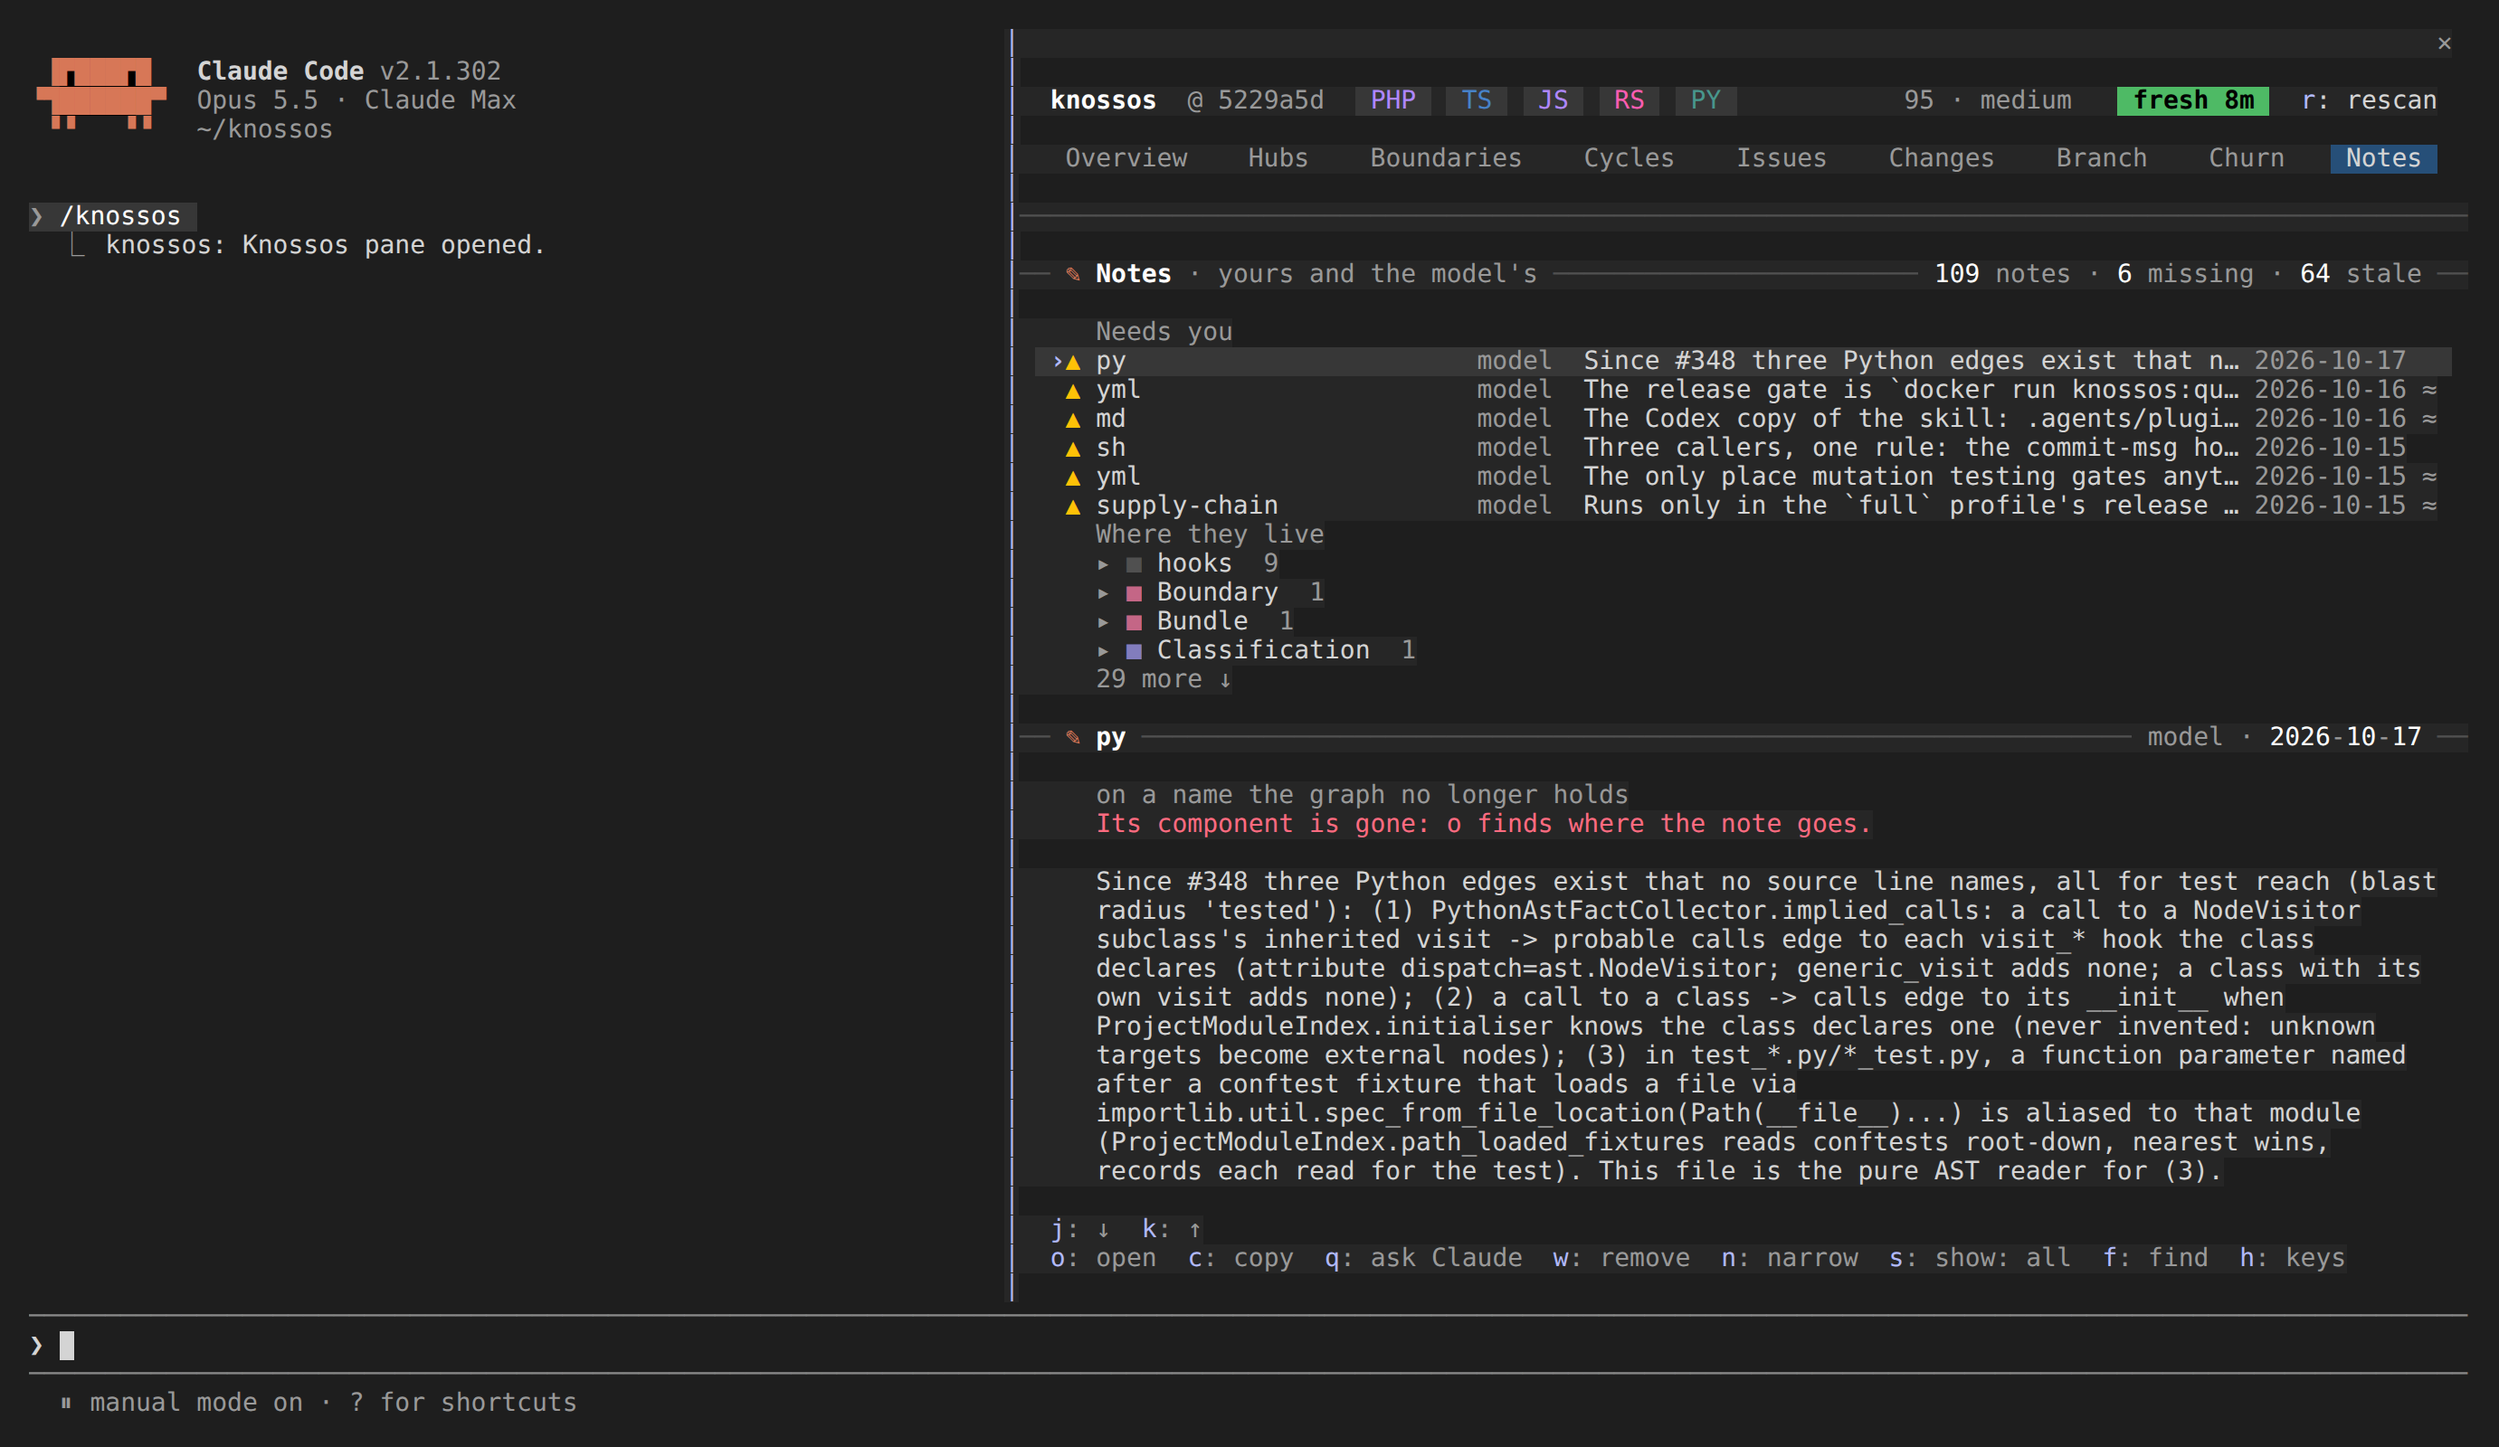
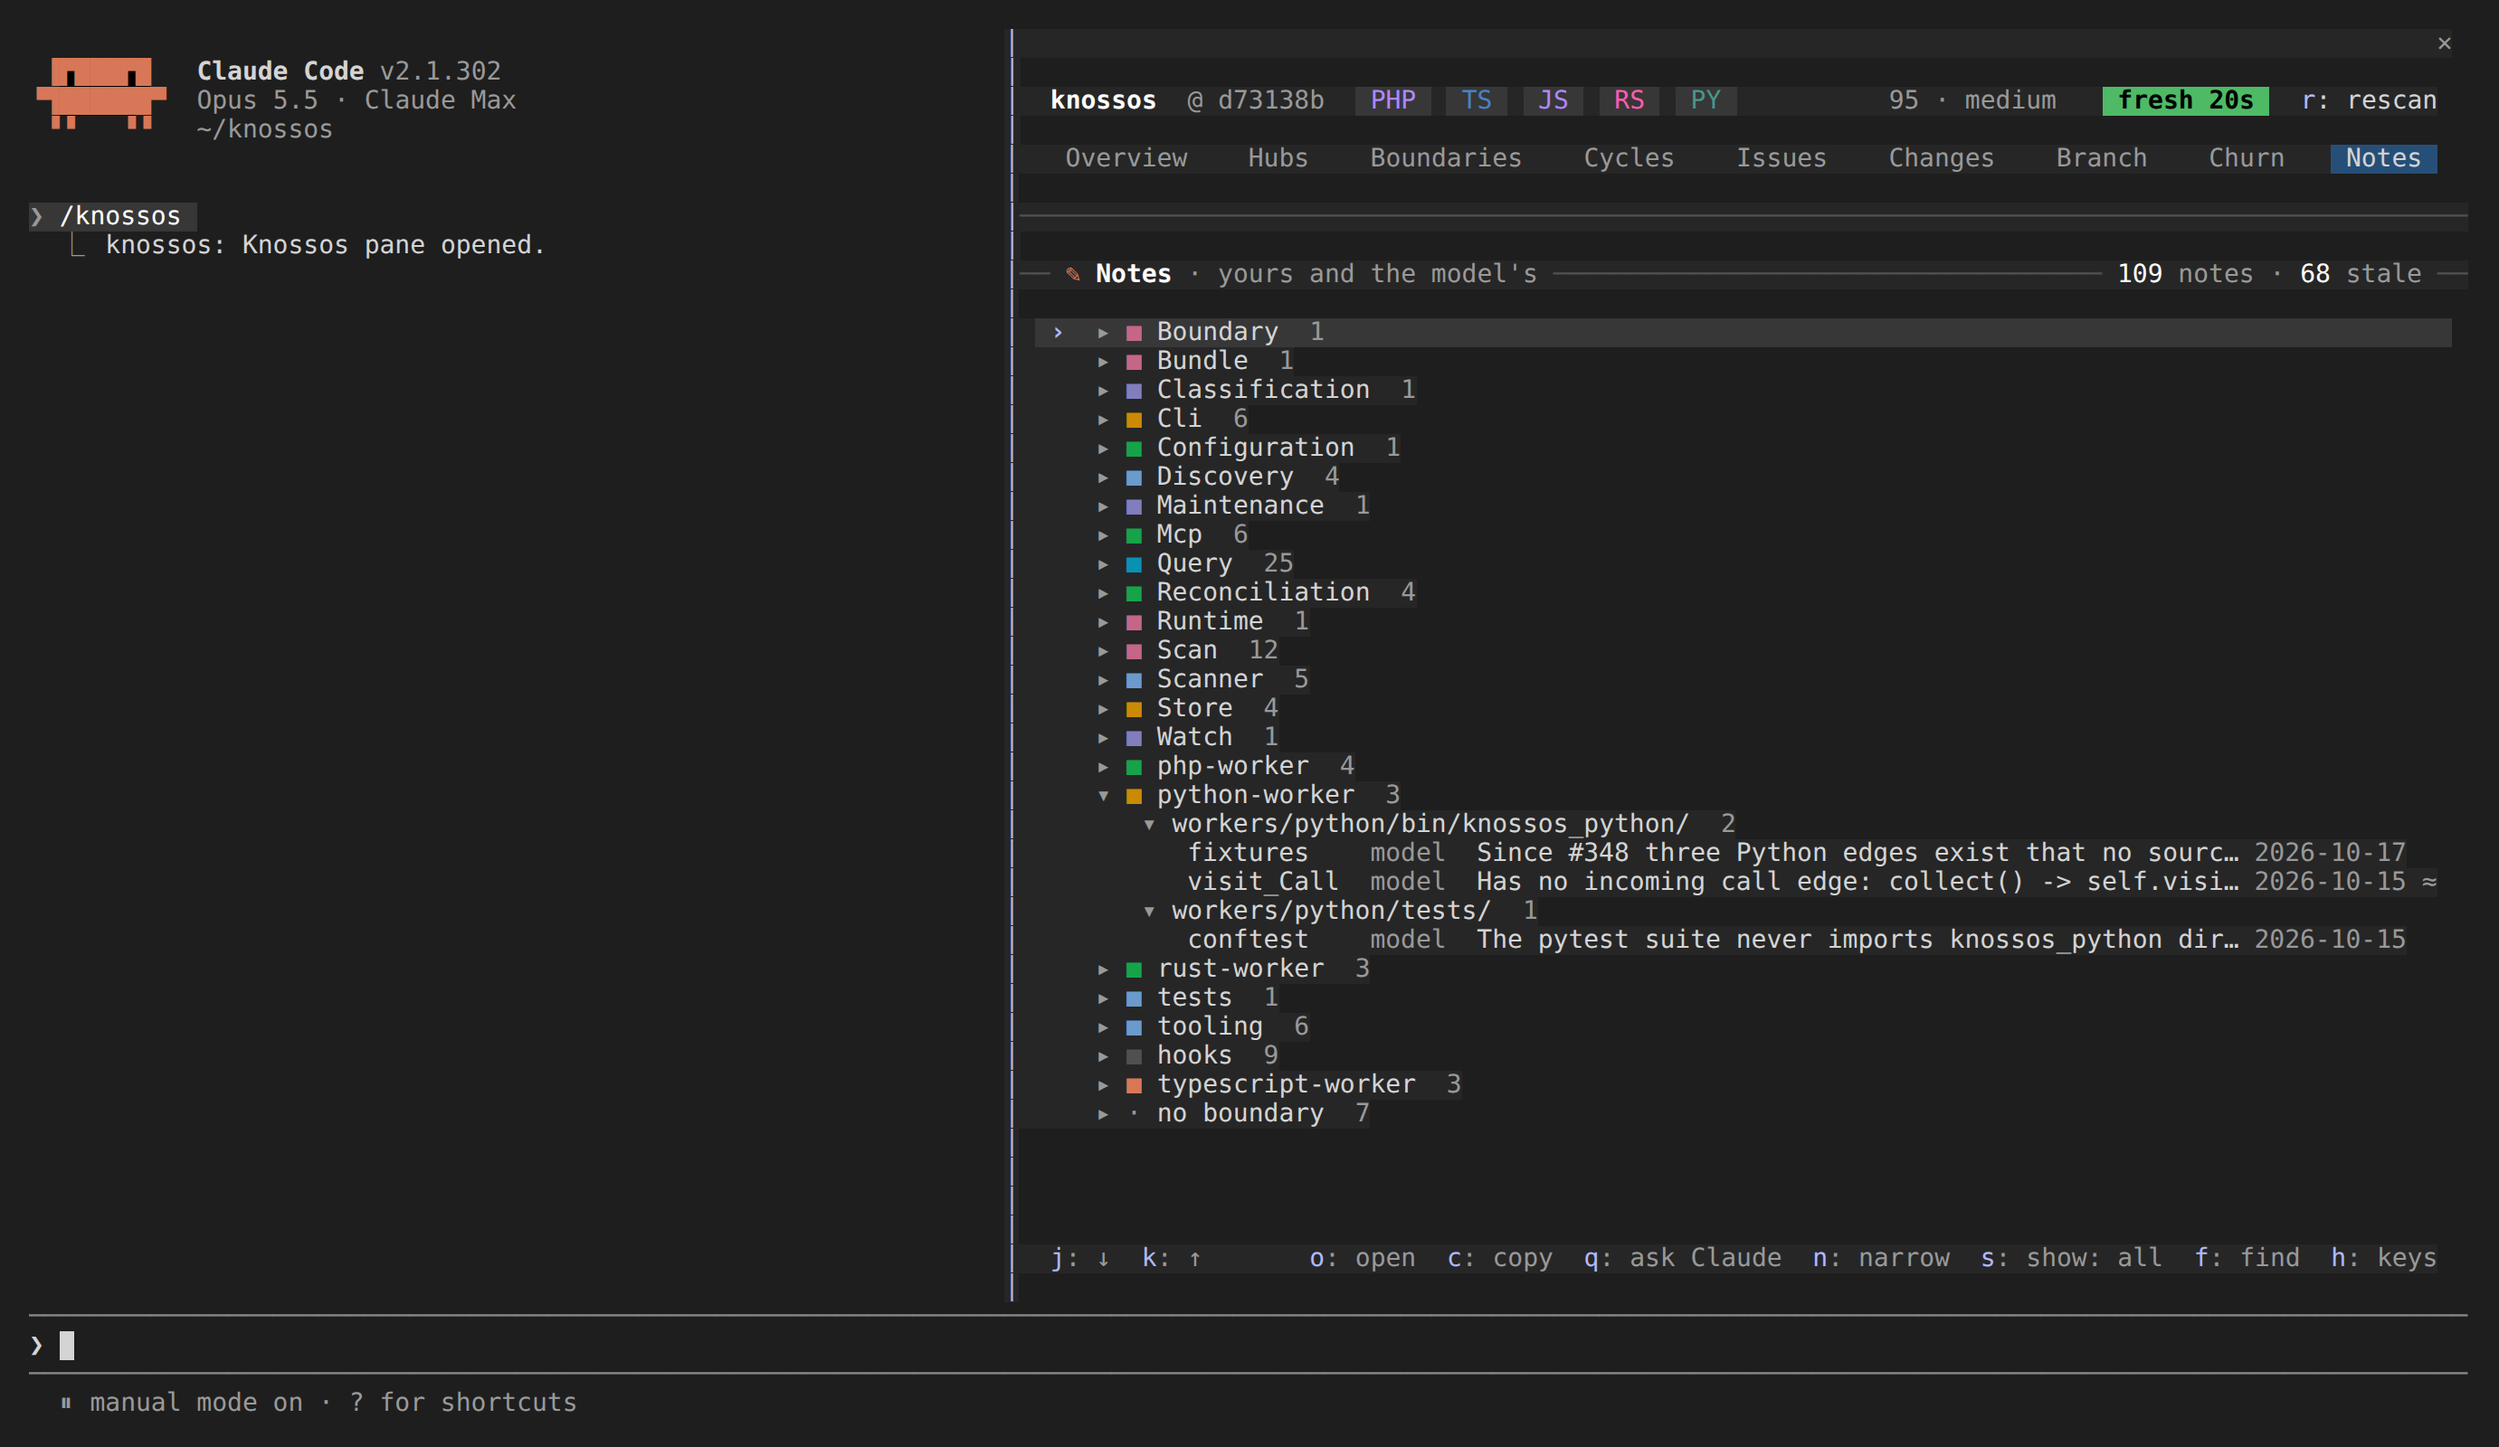
docs: describe the reshot screenshots, and show the Notes tab

diff --git a/docs/claude-code/pane.md b/docs/claude-code/pane.md
@@ -368,7 +368,7 @@ still: here `ResultEnvelope`, used by 89 and using 15.
 
 ## Boundaries
 
-![The Boundaries tab past twelve boundaries: all 29 listed with their components and dependencies in and out, what the marked tests boundary depends on, and the tests to Scanner flow drawn with the component pairs behind it](../images/claude-code/boundaries.png)
+![The Boundaries tab past twelve boundaries: all 29 listed with their components and dependencies in and out, what the marked tests boundary depends on, and the tests to Query flow drawn with the component pairs behind it](../images/claude-code/boundaries.png)
 
 **The heat map** shows how much each boundary depends on each other one. Rows
 are where a dependency starts, columns where it lands. The axes are lettered,
@@ -479,7 +479,7 @@ longest function.
 
 ## Changes
 
-![The Changes tab after a turn edited hooks/lib/paths.ts: two scans from this session, the file with its three dependents and the 28 tests that reach it, and its detail with the diff since the session began](../images/claude-code/changes-diff.png)
+![The Changes tab after a turn edited hooks/lib/paths.ts: two scans from this session, the file with its three dependents and the 31 tests that reach it, and its detail with the diff since the session began](../images/claude-code/changes-diff.png)
 
 Changes lists everything that changed in the project since the session began,
 whoever changed it: the session's own turns and subagents, your editor, a
@@ -572,7 +572,7 @@ process the earlier ones read `outside`.
 
 ## Branch
 
-![The Branch tab: what this checkout added against its merge base with main, as new cross-boundary dependencies, hubs that grew, new dead code and the files the branch touched](../images/claude-code/branch.png)
+![The Branch tab: this checkout against main, the verdict that it broke nothing (no new cycles, crossings, hubs that grew, dead code or violations), and what it changed by boundary with its lines and the files it reaches](../images/claude-code/branch.png)
 
 Branch answers two things at a glance: what this branch changed against its
 default branch, and whether it broke anything.
@@ -635,6 +635,8 @@ Without git the tab says so.
 
 The Notes tab is every note in the project, yours and the model's, as a tree of
 where each lives, with the ones that need you first.
+
+![The Notes tab: 109 notes as a tree of the boundaries they live in, each in its colour with its count, the one holding the newest note open on its folders and notes, each with its author, first line and date](../images/claude-code/notes.png)
 
 **Needs you** lists a note on a name the graph no longer holds (`▲`: its
 component was renamed or moved, and the note sits on the old name) and a model

diff --git a/README.md b/README.md
@@ -181,12 +181,12 @@ Hubs: the most depended-on components, with the marked one's neighbourhood besid
 
 Cycles: each dependency cycle drawn as boxes, from its first member back to the start.
 
-![The Changes tab after a turn edited hooks/lib/paths.ts: two scans from this session, the file with its three dependents and the 28 tests that reach it, and its detail with the diff since the session began](docs/images/claude-code/changes-diff.png)
+![The Changes tab after a turn edited hooks/lib/paths.ts: two scans from this session, the file with its three dependents and the 31 tests that reach it, and its detail with the diff since the session began](docs/images/claude-code/changes-diff.png)
 
 Changes: every file changed since the session began, its dependents, the tests that reach it,
 and its diff.
 
-![The Branch tab: what this checkout added against its merge base with main, as new cross-boundary dependencies, hubs that grew, new dead code and the files the branch touched](docs/images/claude-code/branch.png)
+![The Branch tab: this checkout against main, the verdict that it broke nothing (no new cycles, crossings, hubs that grew, dead code or violations), and what it changed by boundary with its lines and the files it reaches](docs/images/claude-code/branch.png)
 
 Branch: what this branch added against its merge base, from new boundary crossings to new dead
 code.
